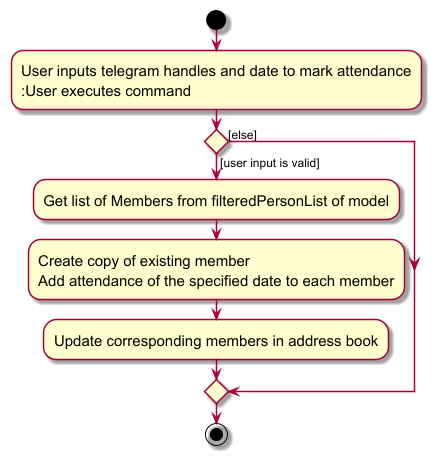
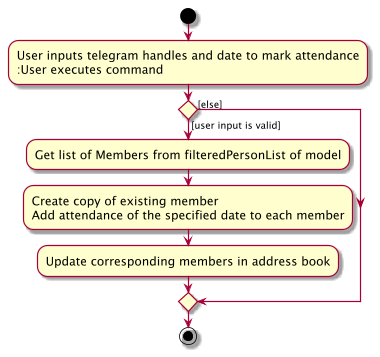
Fix minor issues with DG

Changed region(s): [[0.0, 0.0, 0.9842, 0.986]]

diff --git a/docs/DeveloperGuide.md b/docs/DeveloperGuide.md
@@ -33,7 +33,7 @@ Refer to the guide [_Setting up and getting started_](SettingUp.md).
 
 <div markdown="span" class="alert alert-primary">
 
-:bulb: **Tip:** The `.puml` files used to create diagrams in this document `docs/diagrams` folder. Refer to the [_PlantUML Tutorial_ at se-edu/guides](https://se-education.org/guides/tutorials/plantUml.html) to learn how to create and edit diagrams.
+:bulb: **Tip:** The `.puml` files used to create diagrams in this document can be found in the `docs/diagrams` folder. Refer to the [_PlantUML Tutorial_ at se-edu/guides](https://se-education.org/guides/tutorials/plantUml.html) to learn how to create and edit diagrams.
 </div>
 
 ### Architecture
@@ -46,7 +46,7 @@ Given below is a quick overview of main components and how they interact with ea
 
 **Main components of the architecture**
 
-**`Main`** (consisting of classes [`Main`](https://github.com/se-edu/addressbook-level3/tree/master/src/main/java/seedu/address/Main.java) and [`MainApp`](https://github.com/se-edu/addressbook-level3/tree/master/src/main/java/seedu/address/MainApp.java)) is in charge of the app launch and shut down.
+**`Main`** (consisting of classes [`Main`](https://github.com/AY2425S1-CS2103T-F11-2/tp/blob/master/src/main/java/seedu/address/Main.java) and [`MainApp`](https://github.com/AY2425S1-CS2103T-F11-2/tp/blob/master/src/main/java/seedu/address/MainApp.java)) is in charge of the app launch and shut down.
 * At app launch, it initializes the other components in the correct sequence, and connects them up with each other.
 * At shut down, it shuts down the other components and invokes cleanup methods where necessary.
 
@@ -78,7 +78,7 @@ The sections below give more details of each component.
 
 ### UI component
 
-The **API** of this component is specified in [`Ui.java`](https://github.com/se-edu/addressbook-level3/tree/master/src/main/java/seedu/address/ui/Ui.java)
+The **API** of this component is specified in [`Ui.java`](https://github.com/AY2425S1-CS2103T-F11-2/tp/blob/master/src/main/java/seedu/address/ui/Ui.java)
 
 ![Structure of the UI Component](images/UiClassDiagram.png)
 
@@ -95,7 +95,7 @@ The `UI` component,
 
 ### Logic component
 
-**API** : [`Logic.java`](https://github.com/se-edu/addressbook-level3/tree/master/src/main/java/seedu/address/logic/Logic.java)
+**API** : [`Logic.java`](https://github.com/AY2425S1-CS2103T-F11-2/tp/blob/master/src/main/java/seedu/address/logic/Logic.java)
 
 Here's a (partial) class diagram of the `Logic` component:
 
@@ -125,7 +125,7 @@ How the parsing works:
 * All `XYZCommandParser` classes (e.g., `AddCommandParser`, `DeleteCommandParser`, ...) inherit from the `Parser` interface so that they can be treated similarly where possible e.g, during testing.
 
 ### Model component
-**API** : [`Model.java`](https://github.com/se-edu/addressbook-level3/tree/master/src/main/java/seedu/address/model/Model.java)
+**API** : [`Model.java`](https://github.com/AY2425S1-CS2103T-F11-2/tp/blob/master/src/main/java/seedu/address/model/Model.java)
 
 <img src="images/ModelClassDiagram.png" width="450" />
 
@@ -137,20 +137,20 @@ The `Model` component,
 * wraps the _filtered_ list in a `SortedList<Person>`, where sorting order is determined by a `Comparator<Person>`, selected by the user.
 * exposes `SortedList<Person>` to outsiders as an unmodifiable `ObservableList<Person>` that can be 'observed' e.g. the UI can be bound to this list so that the UI automatically updates when the data in the list change.
 * stores a `UserPref` object that represents the user’s preferences. This is exposed to the outside as a `ReadOnlyUserPref` objects.
-* does not depend on any of the other three components (as the `Model` represents data entities of the domain, they should make sense on their own without depending on other components)
+* does not depend on any of the other three components (as the `Model` represents data entities of the domain, they should make sense on their own without depending on other components).
 
 
 
 ### Storage component
 
-**API** : [`Storage.java`](https://github.com/se-edu/addressbook-level3/tree/master/src/main/java/seedu/address/storage/Storage.java)
+**API** : [`Storage.java`](https://github.com/AY2425S1-CS2103T-F11-2/tp/blob/master/src/main/java/seedu/address/storage/Storage.java)
 
 <img src="images/StorageClassDiagram.png" width="550" />
 
 The `Storage` component,
 * can save both address book data and user preference data in JSON format, and read them back into corresponding objects.
 * inherits from both `AddressBookStorage` and `UserPrefStorage`, which means it can be treated as either one (if only the functionality of only one is needed).
-* depends on some classes in the `Model` component (because the `Storage` component's job is to save/retrieve objects that belong to the `Model`)
+* depends on some classes in the `Model` component (because the `Storage` component's job is to save/retrieve objects that belong to the `Model`).
 
 ### Common classes
 
@@ -207,7 +207,7 @@ and call `Model::setPerson` to update the specified person in the `addressbook` 
 
 The following activity diagram summarizes what happens when a user executes a mark command:
 
-<img src="images/MarkAttendanceActivityDiagram.png" width="250" />
+![MarkAttendanceActivityDiagram](images/MarkAttendanceActivityDiagram.png)
 
 The following sequence diagram shows how a mark operation goes through the `Logic` component:
 
@@ -267,7 +267,7 @@ There are two instances where a profile's JSON file will be created if it does n
 2. When the user exits the program: If the program is closed via the GUI’s 'close' button, then `MainWindow` triggers the file creation chain instead.
 
 ##### Design Considerations
-##### Aspect: What key to store to identify a profile
+###### Aspect: What key to store to identify a profile
 - Alternative 1 (Current Choice): Identify by profile name
   - Pros:
     - Easy for developers to modify profile names rather than file paths.
@@ -324,27 +324,18 @@ Priorities: High (must have) - `* * *`, Medium (nice to have) - `* *`, Low (unli
 | `* * *`  | user          | add new contacts with the few keystrokes                                    | add new contacts efficiently                                            |
 | `* * *`  | user          | edit the details of a contact                                               | keep the contact list up to date                                        |
 | `* * *`  | user          | delete a contact entry if needed                                            | remove any individuals who are no longer relevant to my organisation    |
-| `* *`    | user          | add multiple contacts with one command                                      | save time and streamline the contact entry process                      |
 | `* *`    | user          | sort the contacts by alphabetical order of their names                      | quickly scan through and find the relevant contact                      |
 | `* *`    | user          | assign contacts to a group/role name                                        | group individuals into relevant sections for better clarity             |
 | `* *`    | user          | search for multiple contacts by querying its role                           | get the information of all the contacts related to the relevant role    |
 | `* *`    | user          | mark attendance of several members on specific date                         | accurately record their participation status in CCA activities          |
-| `* *`    | user          | have a separate profile for different purpose                               | organize my contacts based on various context                           |
 | `* *`    | user          | transfer my profile                                                         | easily access and use my profile on other machines                      |
-| `* *`    | user          | add notes to any contact                                                    | remember important details about them                                   |
-| `* *`    | user          | import my contacts from an external file                                    | quickly add contacts obtained from Google Forms or others               |
-| `* *`    | user          | export my contacts to an external file                                      | share contacts with others or manage them externally                    |
 | `* *`    | user          | see all members in a separate view                                          | check members and mark their attendance more easily                     |
 | `* *`    | user          | remove mark of attendance of several members on specific date               | accurately record their participation status in CCA activities          |
 | `* *`    | user          | mark certain contacts as favourites                                         | easily find and access frequently used contacts                         |
-| `* *`    | user          | see a profile picture for each contact                                      | recall the person from the picture                                      |
 | `*`      | user          | sort the contact list based on how often I access each contact)             | quickly find contacts I use most frequently without extensive searching |
 | `*`      | seasoned user | leverage compound and nested queries/commands                               | get the exact results that I require, in fewer commands                 |
-| `*`      | user          | secure my account with authentication                                       | only authorised users can access the information                        |
-| `*`      | user          | log activity history with each contact                                      | keep track of my latest interactions and follow-ups                     |
 | `*`      | user          | perform advanced searches using multiple criteria (e.g. role, last contact) | find specific contacts more efficiently                                 |
 | `*`      | user          | customise the appearance of my address book (e.g. colour schemes, themes…)  | match my preferences                                                    |
-| `*`      | user          | colour-code my contacts based on categories                                 | visually distinguish between different types of contacts                |
 
 
 ### Use cases
@@ -359,7 +350,7 @@ Priorities: High (must have) - `* * *`, Medium (nice to have) - `* *`, Low (unli
 1. User enters appropriate ‘view’ command to search for John Doe’s contact information.
 2. System opens up new page with John Doe’s contact information.
 
-Use Case ends.
+    Use Case ends.
 
 **Extensions**
 
@@ -599,6 +590,8 @@ ___
 * **Regex**: A regular expression, which is a sequence of characters that specifies a match pattern
 * **Member**: A member is a special type of contact that has the role `Member` in its `roles`
 - **Profile**: A collection of contacts in the system, identified by a profile name
+- **Addressbook**:  
+
 ___
 
 ## **Appendix: Instructions for manual testing**
@@ -616,7 +609,7 @@ testers are expected to do more *exploratory* testing.
 
 **Test Case 1**:
 1. Launch the application.
-2. Enter `add n/tester p/99999999 e/test@test.com t/test123 r/member`
+2. Enter `add n/tester p/99999999 e/test@test.com t/test123 r/member`.
 
 **Expected Result**:
 - The new contact is added to the list and displayed.
@@ -634,7 +627,7 @@ testers are expected to do more *exploratory* testing.
 
 **Test Case 1**:
 1. Identify the index of the contact you want to edit, `X`.
-2. Enter `edit X n/New Name`
+2. Enter `edit X n/New Name`.
 
 **Expected Result**:
 - Contact at index `X` has a new contact name, `New Name`.
@@ -677,13 +670,13 @@ testers are expected to do more *exploratory* testing.
 **Description**: Sorts the items in the list based on a specified criterion (`asc`, `desc` or `og`).
 
 **Test Case 1**:
-1. Enter `sort asc`
+1. Enter `sort asc`.
 
 **Expected Result**:
 - The items in the list are sorted in ascending order (based on name).
 
 **Test Case 2**:
-1. Enter `sort tallest`
+1. Enter `sort tallest`.
 
 **Expected Result**:
 - Error message `Sort order parameter can only be asc or desc or og.` displayed.
@@ -693,8 +686,8 @@ testers are expected to do more *exploratory* testing.
 **Description**: Finds items in the list that match a specified search query.
 
 **Test Case 1**:
-1. Identify criterion you wish to find contacts with (e.g., `r/member`)
-2. Enter `find r/member`
+1. Identify criterion you wish to find contacts with (e.g., `r/member`).
+2. Enter `find r/member`.
 
 **Expected Result**:
 - Only contacts that have `Member` in their role are displayed.
@@ -705,58 +698,58 @@ testers are expected to do more *exploratory* testing.
 
 **Test Case 1**:
 1. Identify the telegram handle of the contact you wish to view (e.g., `test123`).
-2. Enter `view t/test123`
+2. Enter `view t/test123`.
 
 **Expected Result**:
 - The contact details of the specified contact are displayed.
 
 **Test Case 2**:
-1. Identify invalid telegram handle you wish to view (e.g., `test` (less than 5 characters) or `test!23` (contains invalid character))).
-2. Enter `view t/test` or `view t/test!23`
+1. Identify invalid telegram handle you wish to view, e.g. `test` (less than 5 characters) or `test!23` (contains invalid character).
+2. Enter `view t/test` or `view t/test!23`.
 
 **Expected Result**:
 - Error message specifying exact error in telegram input displayed.
 
 ### Switch Feature
-**Description**: switches the current profile to the specified profile
+**Description**: switches the current profile to the specified profile.
 
-**Test Case 1**
-1. Assuming the current profile is 'addressbook'
-2. Enter `switch alice`
+**Test Case 1**:
+1. Assuming the current profile is 'addressbook'.
+2. Enter `switch alice`.
 
-**Expected Result**
-- The current profile is swapped to 'alice'
+**Expected Result**:
+- The current profile is swapped to 'alice'.
 
-**Test Case 2**
-1. Assuming the current profile is 'addressbook'
-2. Enter `switch addressbook`
+**Test Case 2**:
+1. Assuming the current profile is 'addressbook'.
+2. Enter `switch addressbook`.
 
-**Expected Result**
-- Error message specifying that `Already on 'addressbook'`
+**Expected Result**:
+- Error message specifying that `Already on 'addressbook'`.
 
 
 ### Delete profile Feature
-**Description**: Deletes an existing profile from the system
+**Description**: Deletes an existing profile from the system.
 
-**Test Case 1**
-1. Assuming the profile 'alice' already exists
-2. Enter `deleteProfile alice`
+**Test Case 1**:
+1. Assuming the profile 'alice' already exists.
+2. Enter `deleteProfile alice`.
 
-**Expected Result**
-- The profile 'alice' is removed
+**Expected Result**:
+- The profile 'alice' is removed.
 
-**Test Case 2**
-1. Assuming the current profile is 'addressbook'
-2. Enter `deleteProfile adressbook`
+**Test Case 2**:
+1. Assuming the current profile is 'addressbook'.
+2. Enter `deleteProfile adressbook`.
 
-**Expected Result**
+**Expected Result**:
 - Error message specifying that `Unable to delete the profile currently in use. Please switch to a different profile before attempting deletion.`
 
-**Test Case 3**
-1. Assuming the profile 'alice' does not exist
-2. Enter `deleteProfile alice`
+**Test Case 3**:
+1. Assuming the profile 'alice' does not exist.
+2. Enter `deleteProfile alice`.
 
-**Expected Result**
+**Expected Result**:
 - Error message specifying that `Profile not found. Unable to delete a non-existing profile.`
 
 ### General Testing Notes
@@ -781,11 +774,13 @@ We plan to make the error message more specific to let the user know of which ex
 Currently, the `role` field is restricted to a maximum of 20 characters. This was done to prevent clutter in the UI, since the team felt that it was sufficient at this point to impose a restriction that should not affect the vast majority of named roles.
 In the future, we plan to implement UI truncation measures to allow for users to specify roles that are longer than the current limit.
 
-4. Update error message of `mark` and `unmark` command when input contains telegram of non-member contact: <br/>
-   Current error message just warns user the input contains non-member telegram handle,
-   we plan to list the name of the non-member contacts in error message for more convenient marking in the next step.
+4. Update error message of `mark` and `unmark` command when input contains telegram of non-member contact:<br/>
+The current error message just warns user the input contains non-member telegram handle.
+We plan to list the name of the non-member contacts in error message for more convenient marking in the next step.
 
-5. Add command to view members with attendance on the input date.
+5. Add new command to view attendance of all members by date:<br/>
+Currently, there is no functionality that lets users view members' attendance by date.
+We plan to implement such a command in the future, to improve search efficiency.
 
 6. Increase specificity of error message when an invalid index is used for `edit` command:<br/>
-The current error message when an invalid index is passed as argument to `edit` command is 'invalid command format ...' which we plan to change it to inform users that specifically their input index is invalid.
+The current error message when an invalid index is passed as an argument to `edit` command is 'invalid command format ...', which we plan to change in order to inform users that specifically their input index is invalid.
